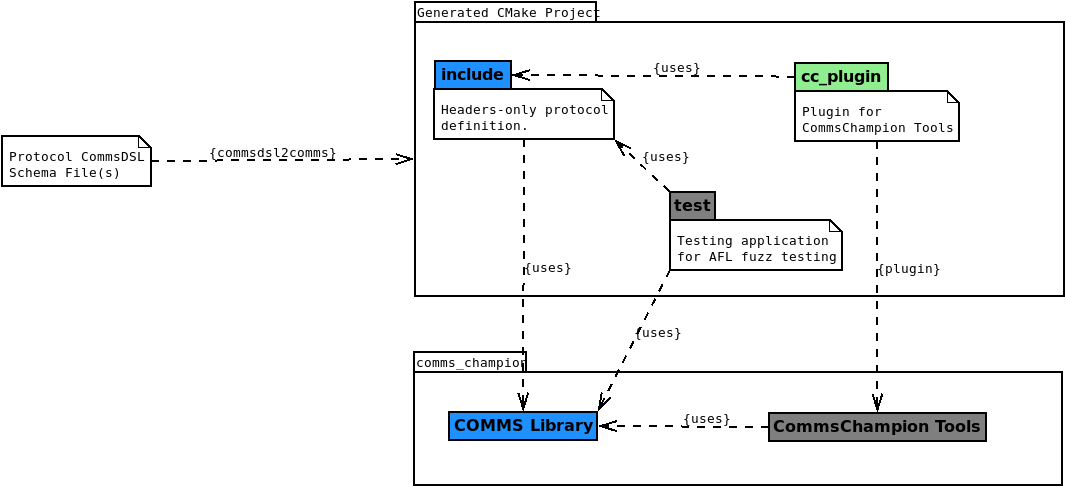
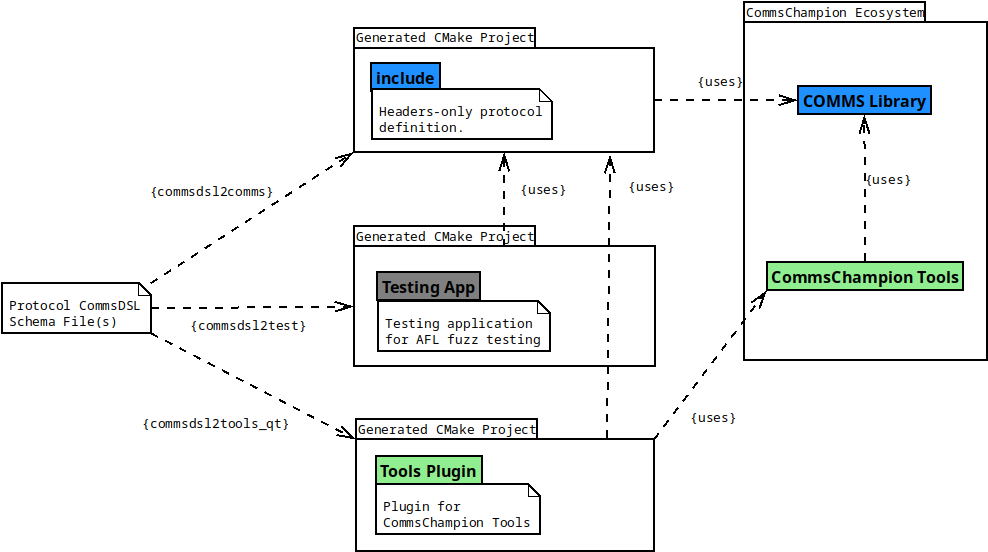
Updating information on split comms_champion project.

diff --git a/_includes/home.md b/_includes/home.md
@@ -1,5 +1,5 @@
 # What it's all about
-**CommsChampion** ecosystem is about **easy** and **compile-time configurable** implementation 
+**CommsChampion Ecosystem** is about **easy** and **compile-time configurable** implementation 
 of binary communication protocols using C++11 programming language, 
 with main focus on **embedded systems** (including bare-metal ones). 
 
@@ -60,24 +60,19 @@ to manually implement required communication protocol
 rather than relying on the existing tools for code generation.
 
 # Solution
-**CommsChampion** ecosystem is there it resolve all the problems listed above. 
+**CommsChampion Ecosystem** is there it resolve all the problems listed above. 
 Its main purpose is to allow quick and easy implementation of a custom binary
-protocol, which may already being defined by a third party, without enforcing
+protocol, which may already been defined by a third party, without enforcing
 any particular data encoding and/or layout. The main philosophy here is that
 most communication protocols are very similar, **but** many may have a couple
 of special nuances, which make it difficult to have "out of the box" complete
 solution. The ecosystem allows injection of manually written code snippets, which
 may replace and/or complement any functionality provided by default. 
 
-There are multiple parts to the **CommsChampion** ecosystem. 
+There are multiple parts to the **CommsChampion Ecosystem**. 
 Some are independent, some require other ones to be used as well.
-The core and major components reside in the 
-[comms_champion](https://github.com/commschamp/comms_champion) repository.
-It consists of the following sub-components:
 
-![comms_champion image]({{ site.baseurl }}/image/comms_champion.png){:style="width:650px"}
-
-- [COMMS library](https://github.com/commschamp/comms_champion#comms-library)
+- [COMMS library](https://github.com/commschamp/comms)
 is the core component and the basis for the whole ecosystem. It is C++(11) **headers only**,
 meta-programming friendly 
 library that allows quick and easy implementation of binary communication protocols
@@ -88,17 +83,19 @@ the library internals handle the **HOW** part. The library contains multiple
 allows getting down to a single "brick" level when protocol definition and/or application
 level customization is required.
 
-- [CommsChampion Tools](https://github.com/commschamp/comms_champion#commschampion-tools)
+- [CommsChampion Tools](https://github.com/commschamp/cc_tools_qt)
 is a set of applications, which can be used to 
 develop, monitor and debug custom binary communication protocols, that were
-developed using the [COMMS library](https://github.com/commschamp/comms_champion#comms-library).
+developed using the [COMMS library](https://github.com/commschamp/comms).
 All the applications are plug-in based, i.e. plug-ins are used to define 
 I/O socket, data filters, and the custom protocol itself. Such architecture allows
 easy assemble of various protocol communication stacks. The tools are intended
 to be used on **development PC**, and use [Qt5](http://www.qt.io/) framework 
 for GUI interfaces as well as loading and managing plug-ins.
 
-The [COMMS library](https://github.com/commschamp/comms_champion#comms-library) was
+![tools image]({{ site.baseurl }}/image/cc_tools_qt.png){:style="width:650px"}
+
+The [COMMS library](https://github.com/commschamp/comms) was
 developed to allow quick and easy **manual** implementation of the protocol definition.
 However, over the years it 
 grew with features and accumulated multiple nuances to be remembered when defining 
@@ -110,18 +107,24 @@ using schema files written in XML based domain specific language, called
 [commsdsl](https://github.com/commschamp/commsdsl) repository provides the following
 sub-components:
 
-![commsdsl image]({{ site.baseurl }}/image/commsdsl.png){:style="width:650px"}
-
 - **commsdsl2comms** application. It generates C++(11) code of the binary protocol 
 definition out of [CommsDSL](https://github.com/commschamp/CommsDSL-Specification) 
 schema file(s). The generated code is simple and easy to read. 
-It uses [COMMS library](https://github.com/commschamp/comms_champion#comms-library)
+It uses [COMMS library](https://github.com/commschamp/comms)
 to define all the necessary protocol definition classes and allows compile-time
 application specific customization of polymorphic interfaces as well as selected
-storage data structures. The **commsdsl2comms**
-application also generates code of protocol definition plugin for
-[CommsChampion Tools](https://github.com/commschamp/comms_champion#commschampion-tools)
-and test application suitable for fuzz testing with [AFL](http://lcamtuf.coredump.cx/afl/).
+storage data structures. 
+
+- **commsdsl2test** application. It generates C++(11) code that allows fuzz 
+testing of the generated protocol code using 
+[AFL](https://lcamtuf.coredump.cx/afl/) or similar. The 
+generated code depends on the output generated by the **commsdsl2comms** as
+well as [COMMS library](https://github.com/commschamp/comms).
+
+- **commsdsl2tools_qt** application. It generates that implements a 
+protocol definition plugin for the [CommsChampion Tools](https://github.com/commschamp/cc_tools_qt).
+ The generated code depends on the output generated by the **commsdsl2comms** as
+well as [CommsChampion Tools](https://github.com/commschamp/cc_tools_qt).
 
 - **libcommsdsl** library. It provides a convenient interface to parse and
 process [CommsDSL](https://github.com/commschamp/CommsDSL-Specification) schema
@@ -130,9 +133,11 @@ which could be used to generate other independent code, such as bindings to the
 code generated by the **commsdsl2comms** application for other programming
 languages, extra testing, [wireshark](https://www.wireshark.org/) dissector, etc...
 
-The process of the custom binary protocol definition code is depicted below.
+![commsdsl image]({{ site.baseurl }}/image/commsdsl.png){:style="width:868px"}
 
-![generation image]({{ site.baseurl }}/image/generated.png){:style="width:1066px"}
+The process of the code generation is depicted below.
+
+![generation image]({{ site.baseurl }}/image/generated.png){:style="width:988px"}
 
 # Benefits
 
@@ -165,7 +170,7 @@ some I/O link.
 At first, it is highly recommended to read through the 
 available [tutorials](https://github.com/commschamp/cc_tutorial) which cover the most common 
 aspects of the [CommsDSL](https://github.com/commschamp/CommsDSL-Specification), code generation,
-[COMMS library](https://github.com/commschamp/comms_champion#comms-library) and their 
+[COMMS library](https://github.com/commschamp/comms) and their 
 integration.
 
 As the second stage in the learning process it is recommended to read through the 
@@ -192,7 +197,7 @@ Other useful resources are:
   explains a directory structure of the code generated by the [commsdsl2comms](https://github.com/commschamp/commsdsl)
   application.
 - [How to Use CommsChampion Tools](https://github.com/commschamp/comms_champion/wiki/How-to-Use-CommsChampion-Tools) - 
-  explains how to use [CommsChampion Tools](https://github.com/commschamp/comms_champion#commschampion-tools)
+  explains how to use [CommsChampion Tools](https://github.com/commschamp/cc_tools_qt)
   to visualize and debug generated protocol code.
 - [Testing Generated Protocol Code](https://github.com/commschamp/commsdsl/blob/master/doc/TestingGeneratedProtocolCode.md) - 
   explains how to fuzz test the protocol definition with [AFL](https://github.com/google/AFL).
@@ -209,14 +214,14 @@ It is also recommended to grab [RSS feed]({{ site.baseurl }}/feed.xml) of the
 to keep yourself updated with latest news and articles.
 
 # New Features Development
-The **CommsChampion** ecosystem is already quite feature rich and satisfies the needs of most available
+The **CommsChampion Ecosystem** is already quite feature rich and satisfies the needs of most available
 protocols. It's not in a constant active development. Introduction of new features now is on-request basis.
 If you think that the latest [versions]({{ site.baseurl }}/versions) of the available components don't satisfy needs of your use case,
 please [get in touch]({{ site.baseurl }}/contact/) to get an estimation of when the new functionality is going to be 
 introduced.
 
 # Contribution
-For any open and freely available standard protocol you implement using the **CommsChampion** ecosystem
+For any open and freely available standard protocol you implement using the **CommsChampion Ecosystem**
 please consider to open source your definition and implement it as a separate project, use
 any of the available [examples]({{ site.baseurl }}/examples) as a template. Please also 
 consider having it hosted as a project inside 

diff --git a/_includes/versions.md b/_includes/versions.md
@@ -2,6 +2,7 @@ Versions Compatibilty Table
 
 | commsdsl2comms | COMMS Library | CommsDSL Specification |
 |---------------------------------------------------------|
+| v4.0| >=v4.0 | <=v4.0|
 | v3.7| >=v3.4.1 | <=v3.1|
 | v3.6.4| >=v3.4 | <=v3.1|
 | v3.6.3| >=v3.3 | <=v3.1|
